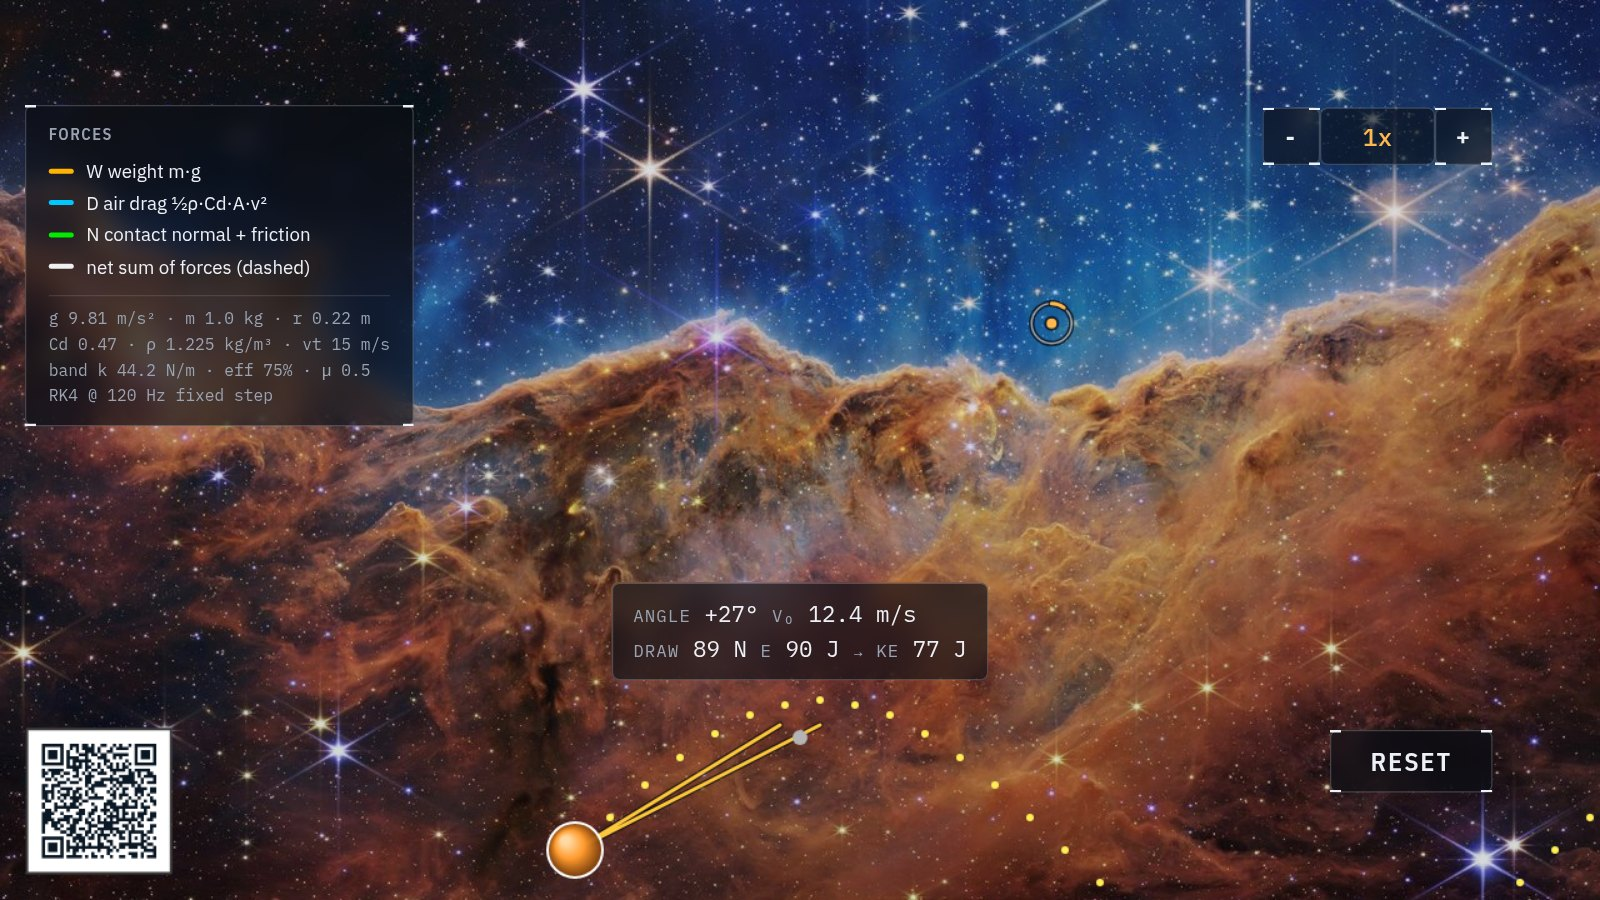
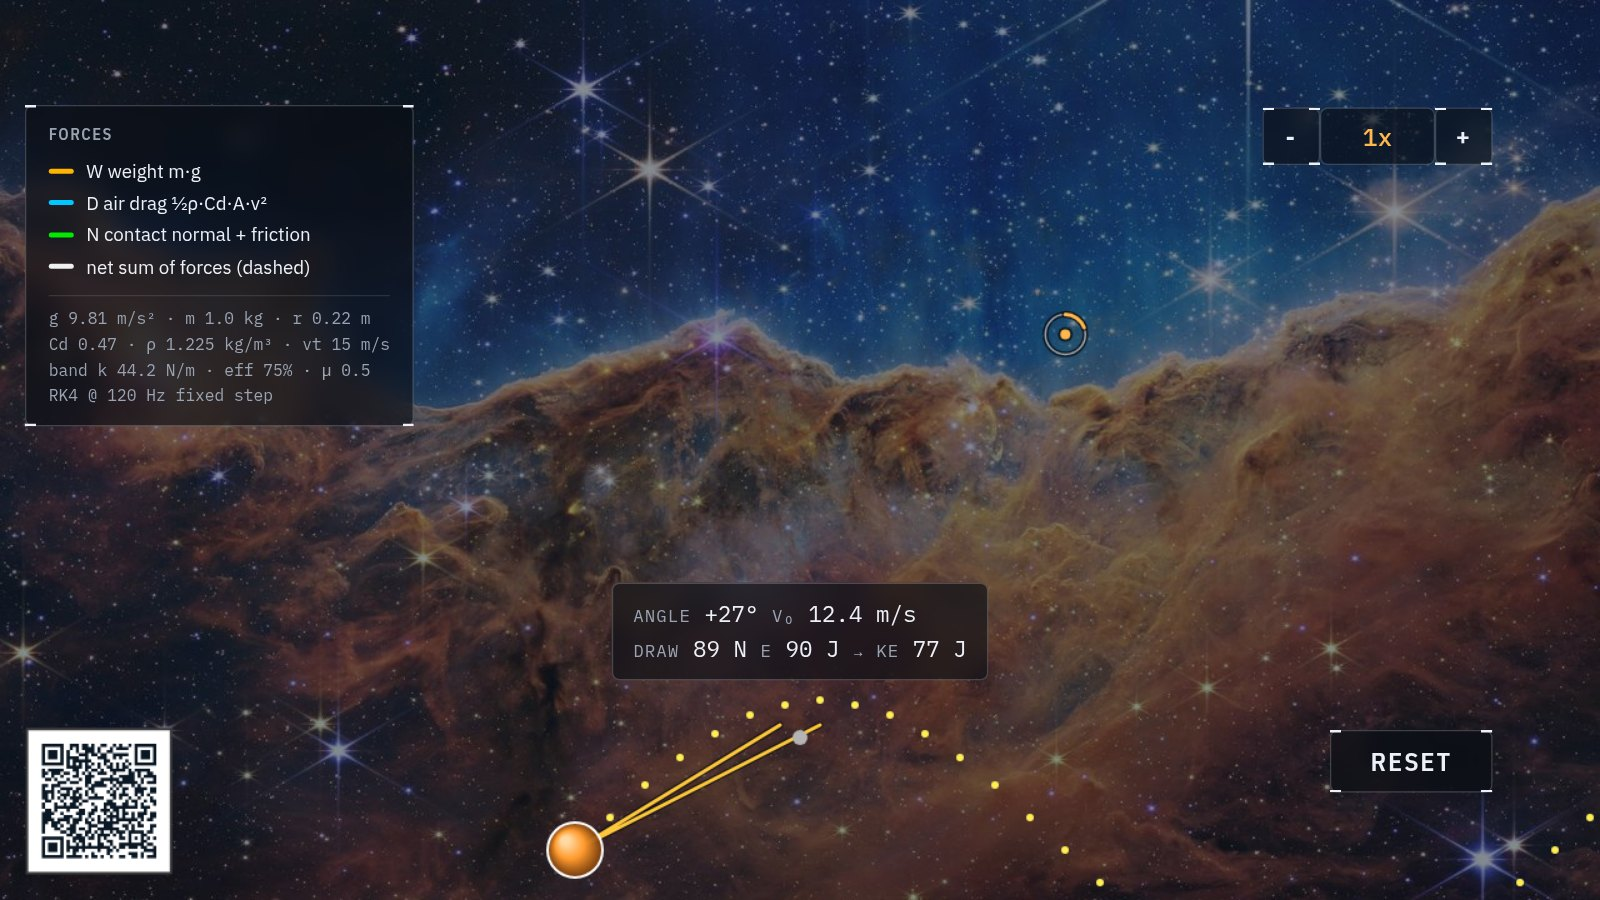
feat(site): fade the NASA background to 50% over the site navy
mock_backend gains HALL_MOCK_BG_ALPHA (blend toward #0A1724, default
0.85); docs/img regenerated at 0.5 so the experiments stay the
protagonists over the Cosmic Cliffs.

diff --git a/web/scripts/mock_backend.py b/web/scripts/mock_backend.py
@@ -34,11 +34,12 @@ START = time.monotonic()
 
 def _bg_photo():
     """HALL_MOCK_BG=<image path>: use a real photograph as the fake camera
-    frame (cover-cropped to WxH, slightly dimmed so overlays read). Used
-    for the exhibit-site screenshots, where the synthetic test card would
-    look wrong; e.g. NASA's public-domain Webb "Cosmic Cliffs"
-    (images-assets.nasa.gov/image/carina_nebula). Returns None to fall
-    back to the synthetic card."""
+    frame (cover-cropped to WxH). HALL_MOCK_BG_ALPHA (default 0.85) sets
+    the photo's opacity over the site's dark navy, so the overlays stay
+    the protagonists. Used for the exhibit-site screenshots, where the
+    synthetic test card would look wrong; e.g. NASA's public-domain Webb
+    "Cosmic Cliffs" (images-assets.nasa.gov/image/carina_nebula). Returns
+    None to fall back to the synthetic card."""
     path = os.environ.get("HALL_MOCK_BG")
     if not path:
         return None
@@ -52,7 +53,10 @@ def _bg_photo():
                      interpolation=cv2.INTER_AREA)
     y0 = (img.shape[0] - H) // 2
     x0 = (img.shape[1] - W) // 2
-    return (img[y0:y0 + H, x0:x0 + W].astype(np.float32) * 0.85).astype(np.uint8)
+    alpha = float(os.environ.get("HALL_MOCK_BG_ALPHA", "0.85"))
+    navy = np.array([36, 23, 10], np.float32)  # docs/ --navy #0A1724 (BGR)
+    crop = img[y0:y0 + H, x0:x0 + W].astype(np.float32)
+    return (crop * alpha + navy * (1.0 - alpha)).astype(np.uint8)
 
 
 def test_card():
